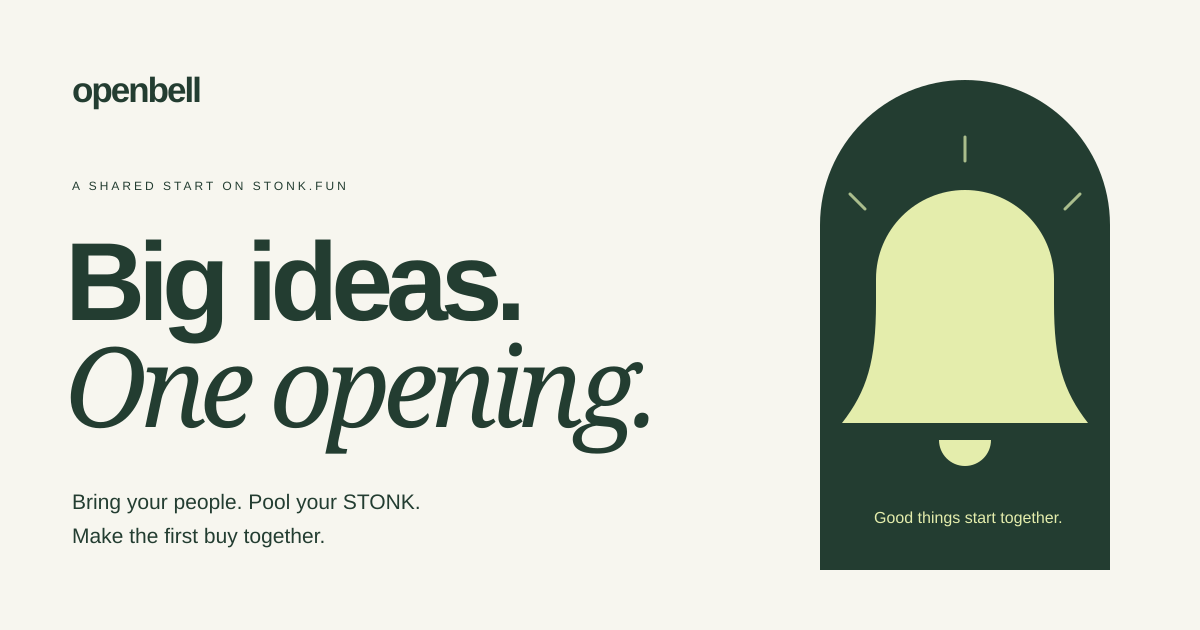
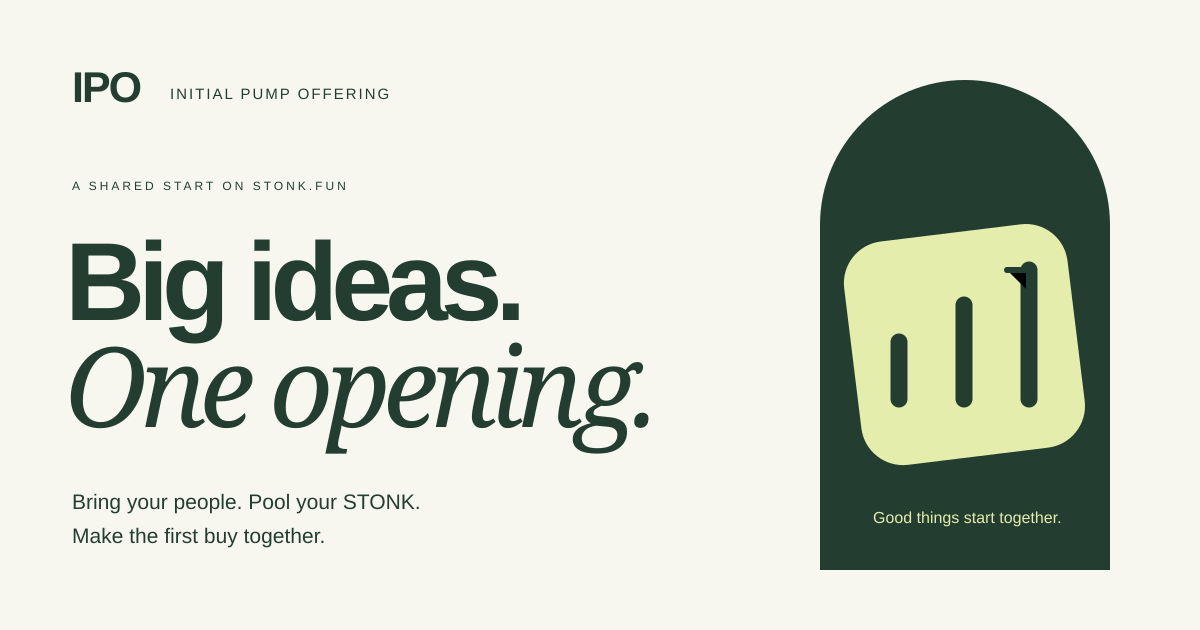
Rename the product IPO — Initial Pump Offering

Changed region(s): [[0.6783, 0.3016, 0.925, 0.754], [0.0617, 0.0905, 0.3083, 0.181], [0.7092, 0.8143, 0.8942, 0.8444]]

diff --git a/components/terminal.tsx b/components/terminal.tsx
@@ -523,7 +523,7 @@ export default function Terminal({ visualFeed, xUrl }: { visualFeed?: any; xUrl?
           <>
             <section className="opening-hero" aria-labelledby="opening-title">
               <div className="hero-copy">
-                <p className="eyebrow"><span className="hero-kicker-mark" /> A SHARED START ON STONK.FUN</p>
+                <p className="eyebrow"><span className="hero-kicker-mark" /> IPO / INITIAL PUMP OFFERING</p>
                 <h1 id="opening-title">Big ideas.<br />One <em>opening.</em></h1>
                 <p className="hero-description">Bring your people. Pool your STONK.<br className="desktop-break" /> Make the first buy together.</p>
                 <div className="hero-actions">
@@ -533,9 +533,9 @@ export default function Terminal({ visualFeed, xUrl }: { visualFeed?: any; xUrl?
                 <div className="hero-footnote"><span>01—60 min windows</span><i /><span>Wallet caps, locked upfront</span></div>
               </div>
               <div className="hero-art" aria-hidden="true">
-                <div className="art-topline"><span>THE OPENBELL METHOD</span><span>№ 001</span></div>
+                <div className="art-topline"><span>INITIAL PUMP OFFERING</span><span>№ 001</span></div>
                 <img src="/brand/opening.svg" alt="" width="500" height="320" />
-                <div className="art-caption"><span>Many wallets.<br /><b>One first buy.</b></span><span className="art-stamp">OB<br /><small>EST. 2026</small></span></div>
+                <div className="art-caption"><span>Many wallets.<br /><b>One first buy.</b></span><span className="art-stamp">IPO<br /><small>EST. 2026</small></span></div>
               </div>
             </section>
             <section className="activity-ribbon" aria-label="Verified protocol activity">
@@ -548,7 +548,7 @@ export default function Terminal({ visualFeed, xUrl }: { visualFeed?: any; xUrl?
             <section
               className="discovery"
               id="launches"
-              aria-label="Explore Openbell launches"
+              aria-label="Explore IPO launches"
             >
               <div className="board-toolbar">
                 <div className="scope-title">
@@ -893,7 +893,7 @@ export default function Terminal({ visualFeed, xUrl }: { visualFeed?: any; xUrl?
                       ) : (
                         <div className="lane-empty">
                           <span className="empty-icon">
-                            <img src="/brand/openbell.svg" alt="" width="46" height="46" />
+                            <img src="/brand/ipo.svg" alt="" width="46" height="46" />
                           </span>
                           <h4>
                             {query || onlyWatch
@@ -941,7 +941,7 @@ export default function Terminal({ visualFeed, xUrl }: { visualFeed?: any; xUrl?
               <div className="feed-source">
                 <span>
                   <i />
-                  Openbell launch accounts · Solana mainnet
+                  IPO launch accounts · Solana mainnet
                 </span>
                 <span>
                   {feed?.checkedAt
@@ -954,7 +954,7 @@ export default function Terminal({ visualFeed, xUrl }: { visualFeed?: any; xUrl?
             </section>
             <section
               className="how-strip"
-              aria-label="How an Openbell launch works"
+              aria-label="How an IPO launch works"
             >
               <div>
                 <span>01</span>
@@ -971,7 +971,7 @@ export default function Terminal({ visualFeed, xUrl }: { visualFeed?: any; xUrl?
               </div>
               <div>
                 <span>03</span>
-                <h3>Ring in the launch.</h3>
+                <h3>Make the first move.</h3>
                 <p>Claim your tokens and any unspent change.</p>
               </div>
               <a href="/docs">
@@ -1193,7 +1193,7 @@ export default function Terminal({ visualFeed, xUrl }: { visualFeed?: any; xUrl?
                   {image ? (
                     <img src={image} alt="" />
                   ) : (
-                    <span>{form.symbol.slice(0, 2) || "OB"}</span>
+                    <span>{form.symbol.slice(0, 2) || "IPO"}</span>
                   )}
                   <div>
                     <b>{form.symbol || "Your ticker"}</b>
@@ -1244,7 +1244,7 @@ export default function Terminal({ visualFeed, xUrl }: { visualFeed?: any; xUrl?
                 <p>
                   One public pool. One atomic opening.
                   <br />
-                  No added Openbell trading fee. Unused creation budget returns to
+                  No added IPO trading fee. Unused creation budget returns to
                   the creator.
                 </p>
                 <a href="/docs#costs">
@@ -1579,7 +1579,7 @@ export default function Terminal({ visualFeed, xUrl }: { visualFeed?: any; xUrl?
                         </dd>
                       </div>
                       <div>
-                        <dt>Openbell protocol fee</dt>
+                        <dt>IPO protocol fee</dt>
                         <dd>0% · Stonk.fun fees apply</dd>
                       </div>
                     </dl>
@@ -1709,7 +1709,7 @@ export default function Terminal({ visualFeed, xUrl }: { visualFeed?: any; xUrl?
                 <Icon name="chevron" size={13} />
               </summary>
               <p>
-                Trading pair: {activeLens.symbol} / STONK. Custody: the Openbell v2
+                Trading pair: {activeLens.symbol} / STONK. Custody: the IPO v2
                 program escrow. Wallet caps apply per address; they do not
                 verify unique people.
               </p>
@@ -1815,7 +1815,7 @@ export default function Terminal({ visualFeed, xUrl }: { visualFeed?: any; xUrl?
               ))}
               {review.prepared.simulatedBook && (
                 <div>
-                  <dt>Openbell protocol fee</dt>
+                  <dt>IPO protocol fee</dt>
                   <dd>0% · Stonk.fun fees apply</dd>
                 </div>
               )}
@@ -1864,7 +1864,7 @@ export default function Terminal({ visualFeed, xUrl }: { visualFeed?: any; xUrl?
               <code>{review.plan.program}</code>
               <code>{review.plan.offering}</code>
               <p>
-                Program-controlled escrow. Openbell adds no separate trading fee.
+                Program-controlled escrow. IPO adds no separate trading fee.
               </p>
             </details>
             <button

diff --git a/app/operations/page.tsx b/app/operations/page.tsx
@@ -3,7 +3,7 @@ import { enigma2Release as release } from "@/lib/enigma2-release.mjs";
 import XLink from "@/components/x-link";
 import { xProfileUrl } from "@/lib/site-links.mjs";
 
-export const metadata = { title: "Release ledger — Openbell" };
+export const metadata = { title: "Release ledger — IPO" };
 
 export default function Operations() {
   return (
@@ -15,7 +15,7 @@ export default function Operations() {
           <a href="/docs">Field guide</a>
         </nav>
         <div className="header-actions">
-          <XLink url={xProfileUrl(process.env.OPENBELL_X_URL || process.env.ENIGMA_X_URL)} />
+          <XLink url={xProfileUrl(process.env.IPO_X_URL || process.env.OPENBELL_X_URL || process.env.ENIGMA_X_URL)} />
         </div>
       </header>
       <main className="docs-layout" id="main">
@@ -26,8 +26,8 @@ export default function Operations() {
           <a href="#funding">Funding review</a>
         </aside>
         <article className="docs-body">
-          <p className="eyebrow">OPENBELL / RELEASE LEDGER</p>
-          <h1>Behind the bell.</h1>
+          <p className="eyebrow">IPO / RELEASE LEDGER</p>
+          <h1>Inside the offering.</h1>
           <p className="lead">
             STONK pools for Stonk.fun launches. The independent contract is
             built and locally tested.
@@ -39,14 +39,14 @@ export default function Operations() {
               {release.codeBytes} bytes.
             </p>
             <p>
-              The Openbell v2 artifact and STONK client are implemented. Isolated
+              The IPO v2 artifact and STONK client are implemented. Isolated
               tests run the actual pinned Stonk LaunchLab binary through
               deposit, atomic mint-and-buy, both beneficiary claims and replay
               rejection. Mainnet deployment and funded public acceptance remain
               pending; public wallet actions are disabled.
             </p>
             <p>
-              Openbell is the new product identity for this repository. The
+              IPO is the new product identity for this repository. The
               underlying v2 program retains its reviewed Enigma 2 identifiers
               and exact bytecode. The original Enigma 1 checkpoint remains
               preserved separately; its tests and estimates do not establish

diff --git a/app/docs/page.tsx b/app/docs/page.tsx
@@ -1,7 +1,7 @@
 import Brand from "@/components/brand";
 import XLink from "@/components/x-link";
 import { xProfileUrl } from "@/lib/site-links.mjs";
-export const metadata = { title: "Field guide — Openbell" };
+export const metadata = { title: "Field guide — IPO" };
 
 export default function Docs() {
   return (
@@ -13,7 +13,7 @@ export default function Docs() {
           <a href="/operations">Release status</a>
         </nav>
         <div className="header-actions">
-          <XLink url={xProfileUrl(process.env.OPENBELL_X_URL || process.env.ENIGMA_X_URL)} />
+          <XLink url={xProfileUrl(process.env.IPO_X_URL || process.env.OPENBELL_X_URL || process.env.ENIGMA_X_URL)} />
         </div>
       </header>
       <main className="docs-layout" id="main">
@@ -24,7 +24,7 @@ export default function Docs() {
           <a href="#custody">Custody</a>
         </aside>
         <article className="docs-body">
-          <p className="eyebrow">THE OPENBELL FIELD GUIDE</p>
+          <p className="eyebrow">THE IPO FIELD GUIDE</p>
           <h1>A little time. A shared beginning.</h1>
           <p className="lead">
             Pool STONK during a public window, then create the coin and make the
@@ -67,7 +67,7 @@ export default function Docs() {
               standard LaunchLab platform without a transfer-fee extension, then
               buys with pooled STONK atomically. The transaction verifies the
               actual token receipt, a minimum fill and the locked upper
-              allocation bound. Openbell adds no protocol fee. Stonk’s venue fees
+              allocation bound. IPO adds no protocol fee. Stonk’s venue fees
               reduce the purchased tokens.
             </p>
           </section>

diff --git a/app/globals.css b/app/globals.css
@@ -1,4 +1,4 @@
-/* Openbell: warm paper, botanical ink, an opening worth sharing. */
+/* IPO: warm paper, botanical ink, an opening worth sharing. */
 @font-face { font-family: Manrope; src: url('/fonts/manrope-regular.ttf') format('truetype'); font-style: normal; font-weight: 400; font-display: swap; }
 @font-face { font-family: Manrope; src: url('/fonts/manrope-semibold.ttf') format('truetype'); font-style: normal; font-weight: 500 600; font-display: swap; }
 @font-face { font-family: Manrope; src: url('/fonts/manrope-extrabold.ttf') format('truetype'); font-style: normal; font-weight: 700 800; font-display: swap; }
@@ -511,3 +511,9 @@ dd { font-size: 11px; margin: 0; text-align: right; overflow-wrap: anywhere; }
   *, *::before, *::after { animation: none !important; transition: none !important; }
 }
 .lens-identity p > span { display: inline-block; margin-left: 9px; font-size: 9px; padding: 2px 7px; border: 1px solid var(--line); border-radius: 5px; }
+/* IPO wordmark: the owner’s chosen name and exact expansion. */
+.brand-wordmark { display: flex; flex-direction: column; gap: 4px; }
+.brand-wordmark b { font-size: 27px; line-height: .9; letter-spacing: -1px; }
+.brand-wordmark small { font-size: 6px; font-weight: 600; letter-spacing: .7px; line-height: 1.3; text-transform: uppercase; }
+footer .brand-wordmark b { font-size: 22px; }
+footer .brand-wordmark small { font-size: 5px; }

diff --git a/app/layout.tsx b/app/layout.tsx
@@ -8,20 +8,20 @@ export const metadata: Metadata = {
         ? "https://" + process.env.VERCEL_URL
         : "http://localhost:3143"),
   ),
-  title: "Openbell — Good things start together",
+  title: "IPO — Initial Pump Offering",
   description:
-    "Bring your people. Pool your STONK. Openbell brings communities together for one shared first buy on Stonk.fun.",
-  icons: { icon: "/brand/openbell.svg", apple: "/brand/icon.png" },
+    "IPO stands for Initial Pump Offering. Pool STONK with your community for one shared first buy on Stonk.fun.",
+  icons: { icon: "/brand/ipo.svg", apple: "/brand/icon.png" },
   robots: { index: false, follow: false },
   openGraph: {
-    title: "Openbell",
+    title: "IPO — Initial Pump Offering",
     description: "Big ideas. One opening. Community STONK pools for Stonk.fun.",
     images: [
       {
         url: "/brand/social.png",
         width: 1200,
         height: 630,
-        alt: "Openbell — Good things start together",
+        alt: "IPO — Initial Pump Offering",
       },
     ],
   },

diff --git a/app/api/local-release/route.ts b/app/api/local-release/route.ts
@@ -68,7 +68,7 @@ export async function GET(req: Request) {
     return Response.json(
       {
         error:
-          "Openbell v2 release inputs could not be verified. No payment was requested.",
+          "IPO v2 release inputs could not be verified. No payment was requested.",
       },
       { status: 503 },
     );
@@ -121,7 +121,7 @@ export async function POST(req: Request) {
     return Response.json(
       {
         error:
-          "The exact Openbell v2 deployment stage could not be verified. Recover the saved transaction before requesting another payment.",
+          "The exact IPO v2 deployment stage could not be verified. Recover the saved transaction before requesting another payment.",
       },
       { status: 400 },
     );

diff --git a/components/release-console.tsx b/components/release-console.tsx
@@ -281,7 +281,7 @@ export default function ReleaseConsole() {
             save,
           });
           setMessage(
-            "Openbell v2 deployment, code hash, authority and initialization verified. Public launches remain paused for the separately capped acceptance test.",
+            "IPO v2 deployment, code hash, authority and initialization verified. Public launches remain paused for the separately capped acceptance test.",
           );
           setPlan({ ...plan, result });
           break;

diff --git a/components/brand.tsx b/components/brand.tsx
@@ -1,8 +1,8 @@
 export default function Brand() {
   return (
-    <a className="brand" href="/" aria-label="Openbell home">
-      <img src="/brand/openbell.svg" width="34" height="34" alt="" />
-      <span>openbell</span>
+    <a className="brand" href="/" aria-label="IPO — Initial Pump Offering home">
+      <img src="/brand/ipo.svg" width="34" height="34" alt="" />
+      <span className="brand-wordmark"><b>IPO</b><small>Initial Pump Offering</small></span>
     </a>
   );
 }

diff --git a/app/page.tsx b/app/page.tsx
@@ -1,5 +1,5 @@
 import Terminal from "@/components/terminal";
 import { xProfileUrl } from "@/lib/site-links.mjs";
 export default function Page() {
-  return <Terminal xUrl={xProfileUrl(process.env.OPENBELL_X_URL || process.env.ENIGMA_X_URL)} />;
+  return <Terminal xUrl={xProfileUrl(process.env.IPO_X_URL || process.env.OPENBELL_X_URL || process.env.ENIGMA_X_URL)} />;
 }

diff --git a/app/lab/visual/page.tsx b/app/lab/visual/page.tsx
@@ -31,7 +31,7 @@ export default function VisualQA() {
     symbol,
     name,
     uri: "https://example.com/local-fixture-only",
-    image: i % 3 === 0 ? "/brand/openbell.svg" : null,
+    image: i % 3 === 0 ? "/brand/ipo.svg" : null,
     status: i < 3 ? "open" : "launched",
     poolVerified: i >= 6,
     quoteMint: "6GmAFSYs4gk3FDao5FzzySQpPZaWsa4rUJHacpMpUNgx",

diff --git a/docs/DESIGN.md b/docs/DESIGN.md
@@ -1,15 +1,17 @@
-# Openbell — October 29, 2026
+# IPO — Initial Pump Offering
 
 The owner requested a new name and a complete website redesign with its own
-identity. Openbell replaces Enigma in the public presentation, in the same
-`jaycarson373-tech/enigma2` repository. “Good things start together” connects the
-name to a shared opening and pooled first buy.
+identity. The owner then chose IPO — Initial Pump Offering — as the final
+name, replacing the proposed Openbell name. IPO replaces Enigma in the public
+presentation, in the same `jaycarson373-tech/enigma2` repository. “Good things start together” connects the
+product to a shared opening and pooled first buy. The name does not change
+the Stonk.fun-only venue or STONK pool asset.
 
 ## Visual direction
 
 Warm ivory paper, deep botanical green ink, pale citron and restrained clay
 accents. Self-hosted Manrope gives the interface a clear geometric voice; a
-serif italic accents the opening headline. The bell monogram, community bell
+serif italic accents the opening headline. The ascending-bar monogram, pooled-offering
 illustration, icon and social card are original SVG artwork made for this site.
 Manrope is included under its SIL Open Font License in `public/fonts`.
 
@@ -40,5 +42,5 @@ account identities, wallet recovery namespaces or activation requirements. The
 compiled release remains built-not-deployed, and public financial actions remain
 paused pending deployment and funded acceptance. Original Enigma 1 is preserved.
 
-Clean production screenshots: [Desktop](screenshots/openbell-desktop.png),
-[Mobile](screenshots/openbell-mobile.png), [Create](screenshots/openbell-create.png).
+Clean production screenshots: [Desktop](screenshots/ipo-desktop.png),
+[Mobile](screenshots/ipo-mobile.png), [Create](screenshots/ipo-create.png).

diff --git a/README.md b/README.md
@@ -1,6 +1,7 @@
-# Openbell
+# IPO — Initial Pump Offering
 
-Good things start together. Community STONK pools for timed openings on **Stonk.fun**. Formerly Enigma 2; this is the existing separate
+**Initial Pump Offering.** Good things start together. Community STONK pools
+for timed openings on **Stonk.fun**. Formerly Enigma 2; this is the existing separate
 [jaycarson373-tech/enigma2](https://github.com/jaycarson373-tech/enigma2) repository.
 
 **Implemented and tested in an isolated Solana VM. Mainnet deployment and funded
@@ -21,11 +22,11 @@ The retained Enigma 1 source, fixtures and tests are historical references only.
 The original [Enigma 1 checkpoint](https://github.com/jaycarson373-tech/enigma-launch/tree/enigma-1)
 remains preserved in its original repository.
 
-Openbell is the public product name. The repository, reviewed v2 artifact,
+IPO is the public product name. The repository, reviewed v2 artifact,
 account discriminators, deployment seeds, recovery storage keys and activation
 flags retain their existing identifiers for compatibility. See
-[the current design](docs/DESIGN.md). Screenshots: [desktop](docs/screenshots/openbell-desktop.png),
-[mobile](docs/screenshots/openbell-mobile.png), [creation](docs/screenshots/openbell-create.png).
+[the current design](docs/DESIGN.md). Screenshots: [desktop](docs/screenshots/ipo-desktop.png),
+[mobile](docs/screenshots/ipo-mobile.png), [creation](docs/screenshots/ipo-create.png).
 
 ## Run and verify
 
